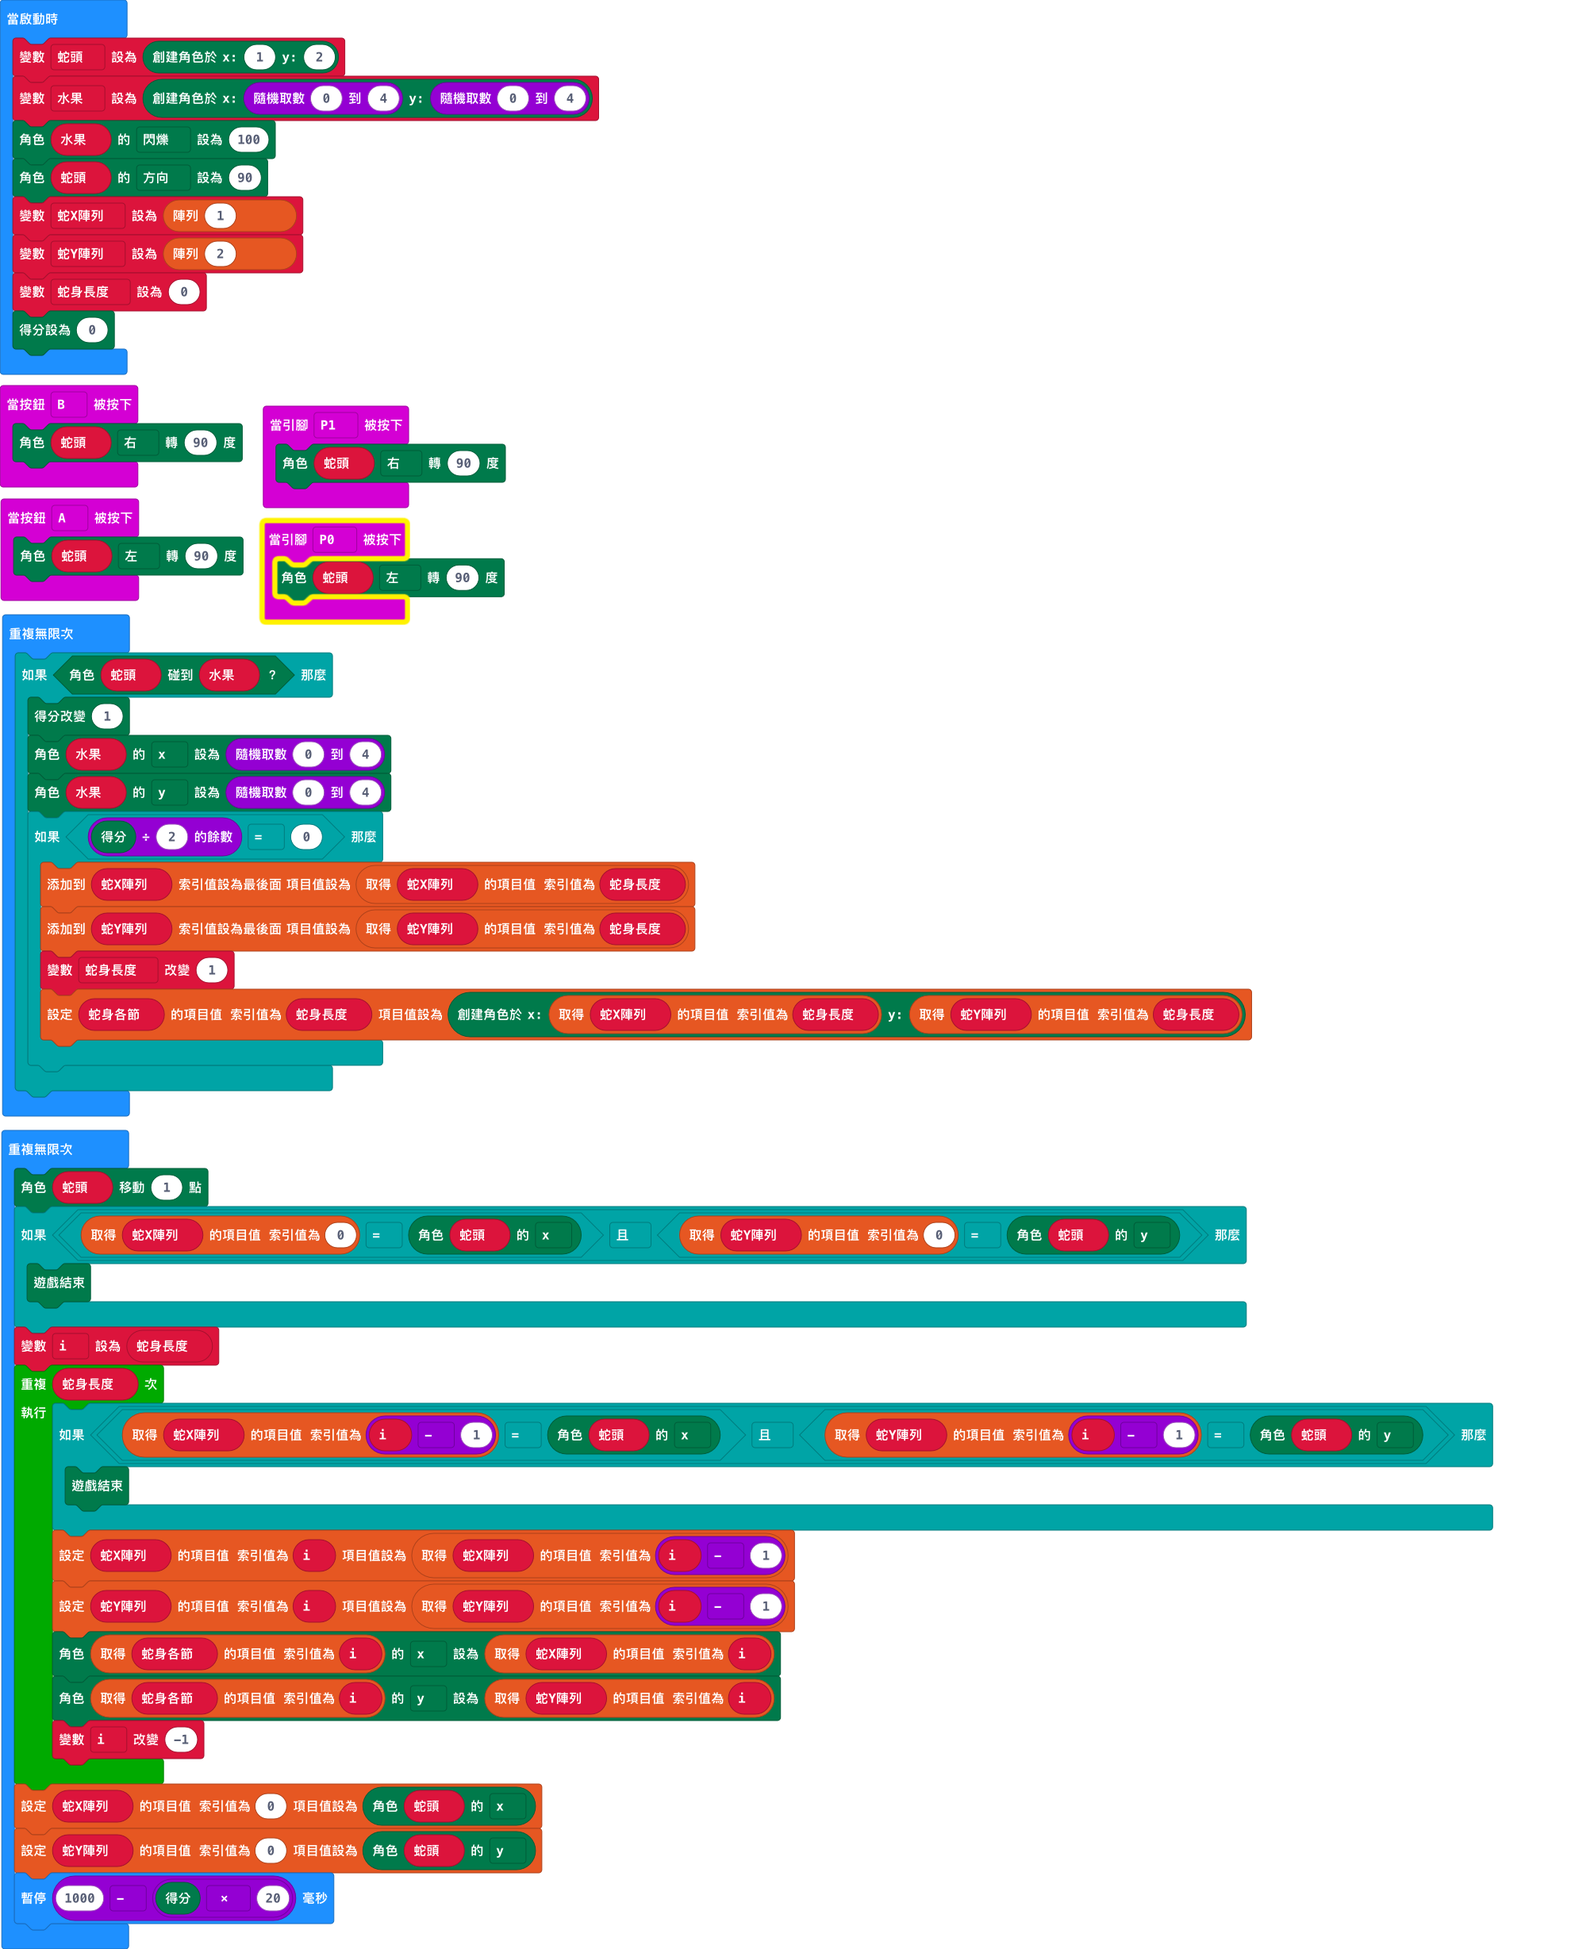
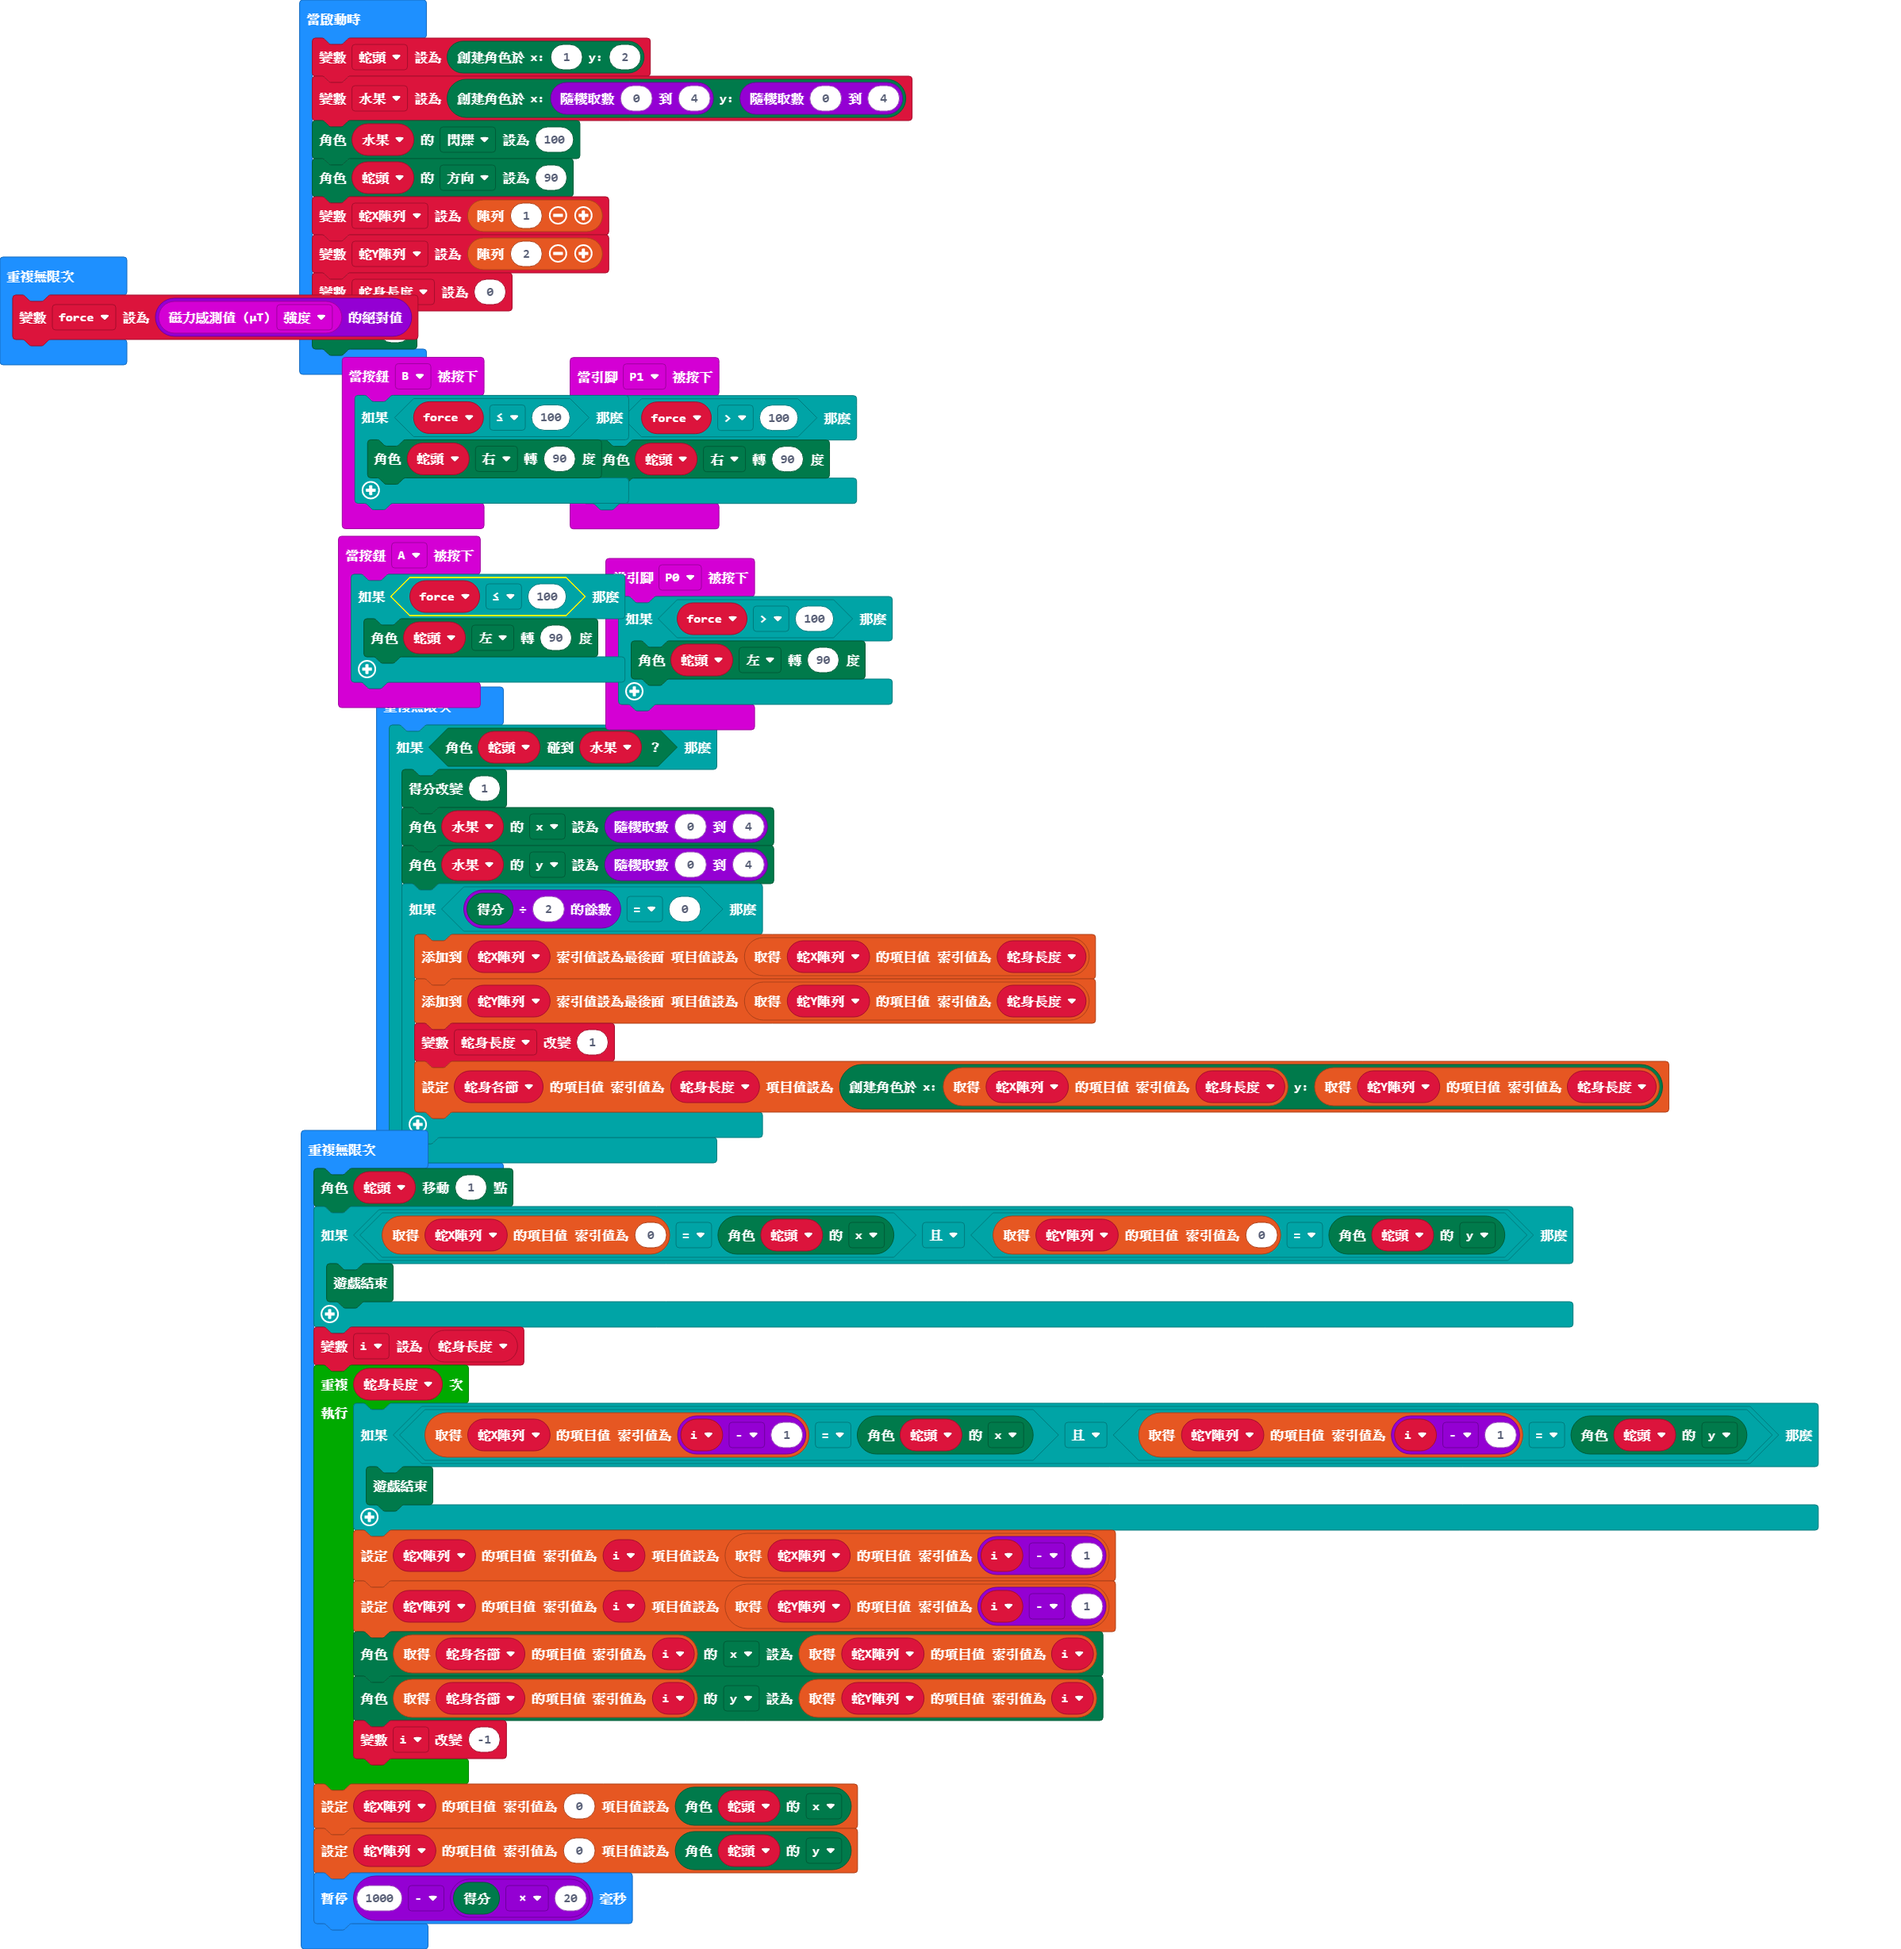
fix magnet bug

diff --git a/main.ts b/main.ts
@@ -1,17 +1,26 @@
 input.onPinPressed(TouchPin.P0, function () {
-    蛇頭.turn(Direction.Left, 90)
+    if (force > 100) {
+        蛇頭.turn(Direction.Left, 90)
+    }
 })
 input.onButtonPressed(Button.A, function () {
-    蛇頭.turn(Direction.Left, 90)
+    if (force <= 100) {
+        蛇頭.turn(Direction.Left, 90)
+    }
 })
 input.onButtonPressed(Button.B, function () {
-    蛇頭.turn(Direction.Right, 90)
+    if (force <= 100) {
+        蛇頭.turn(Direction.Right, 90)
+    }
 })
 input.onPinPressed(TouchPin.P1, function () {
-    蛇頭.turn(Direction.Right, 90)
+    if (force > 100) {
+        蛇頭.turn(Direction.Right, 90)
+    }
 })
 let i = 0
 let 蛇身各節: game.LedSprite[] = []
+let force = 0
 let 蛇頭: game.LedSprite = null
 蛇頭 = game.createSprite(1, 2)
 let 水果 = game.createSprite(randint(0, 4), randint(0, 4))
@@ -21,6 +30,9 @@ let 蛇X陣列 = [1]
 let 蛇Y陣列 = [2]
 let 蛇身長度 = 0
 game.setScore(0)
+basic.forever(function () {
+    force = Math.abs(input.magneticForce(Dimension.Strength))
+})
 basic.forever(function () {
     if (蛇頭.isTouching(水果)) {
         game.addScore(1)
